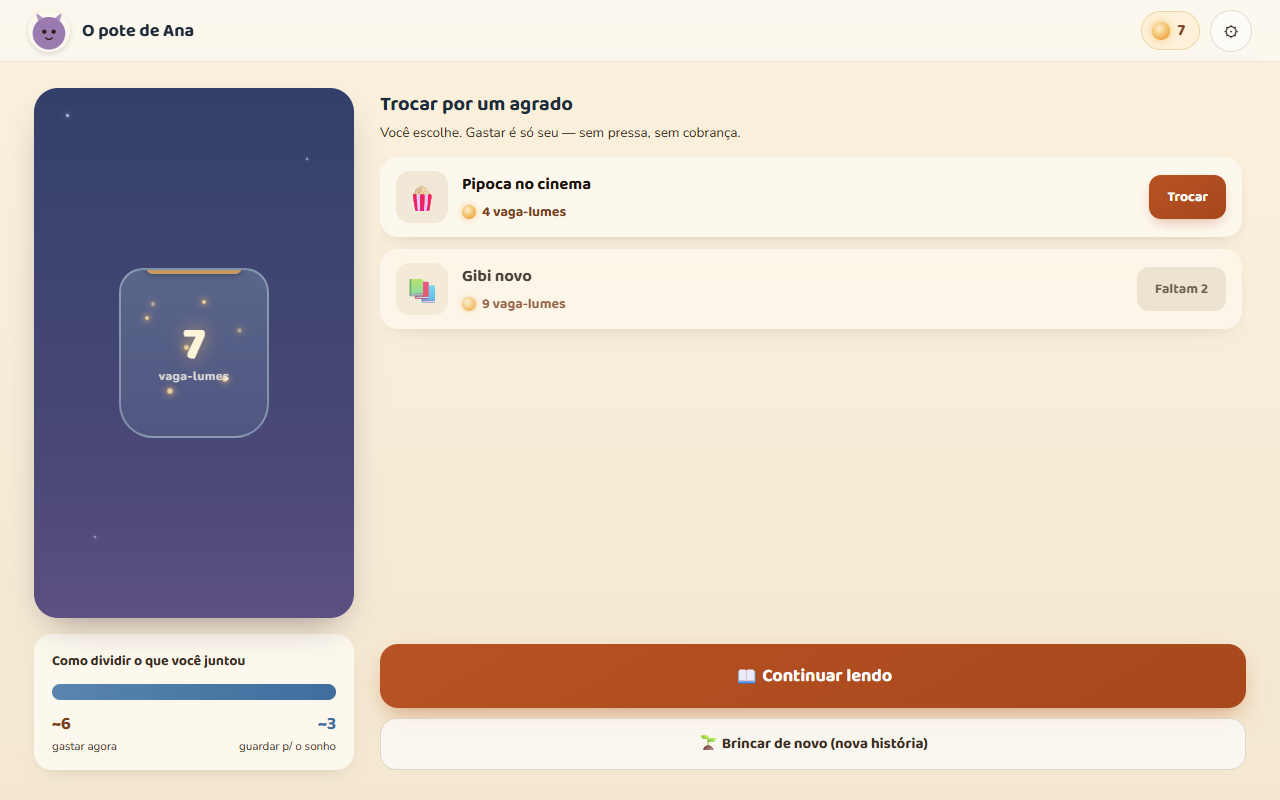
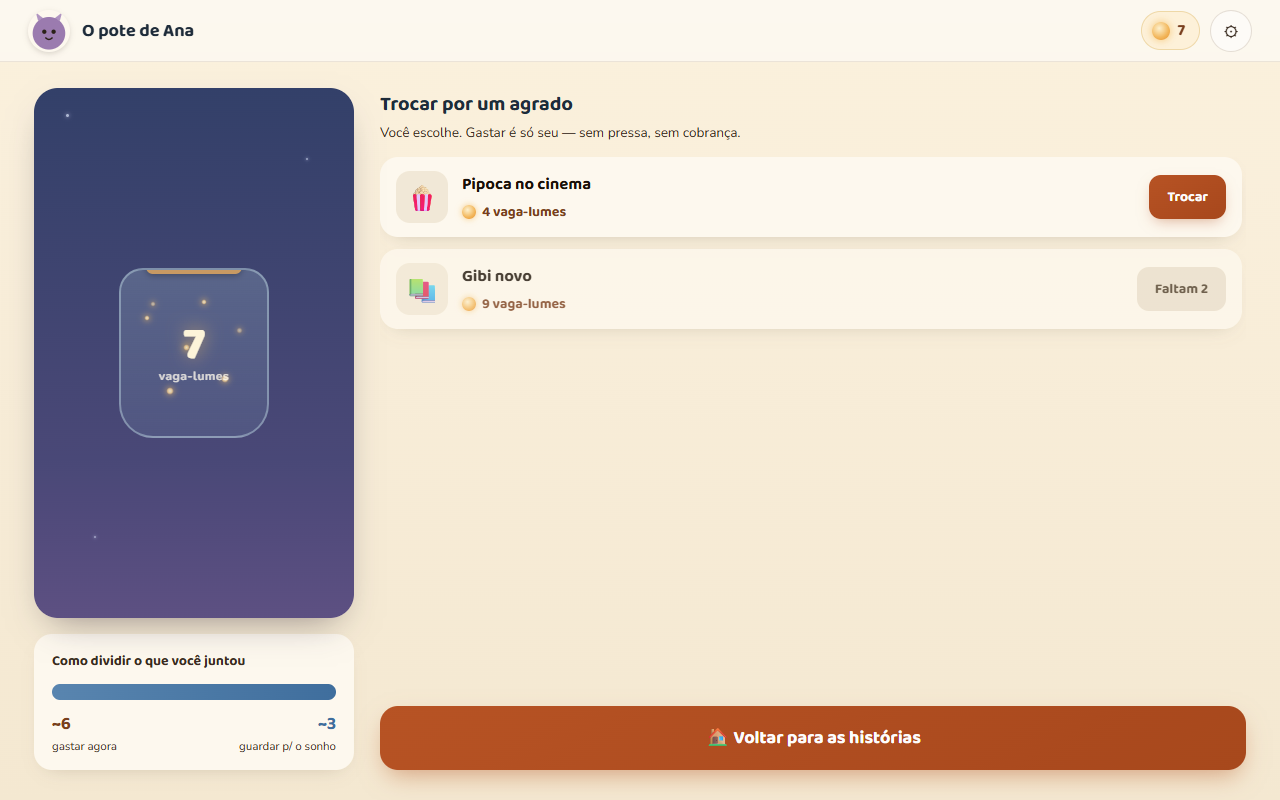
feat(crianca): saidas sem portao — trocar leitor e pote da T3, gear em T2/T6, genero so na T3 (B5)
- T3: avatar+saudacao viram button 'Trocar quem esta lendo' (-> T2) e o saldo vira
  'Ver meu pote de vaga-lumes' (-> T7); ambos >= 48px, 1 toque, sem portao (T2 e
  livre por design; guarda KIDMODE intocada).
- T7: sem historia em curso a primaria e 'Voltar para as historias' (nao abre a T4
  iniciando composicao do nada); a secundaria so aparece com historia em curso.
- T6 ganha o gear 'Do meu jeito' (48px; era a unica tela sem saida lateral);
  T2 ganha 'Do meu jeito' ao lado de 'Sou o cuidador' (48px).
- estado.js: PedirGenero fica pendente na ativacao e abre apenas na chegada a T3
  (nunca sobre T4-T7).
- Runners: linha-verde +7 asserts (87); geracao2 espera o overlay na chegada a T3 e
  prova que nao abre fora dela (48); sonda a11y aceita a nova primaria da T7 (31/31).
- PNGs de prova (B1/B4) regenerados pela sonda apos as mudancas.

Changed region(s): [[0.2812, 0.7812, 1.0, 1.0]]

diff --git a/src/telas/Tela3SelecaoCenario.dc.html b/src/telas/Tela3SelecaoCenario.dc.html
@@ -11,18 +11,20 @@
 
   <!-- Header -->
   <div style="height:62px;flex-shrink:0;display:flex;align-items:center;justify-content:space-between;padding:0 28px;background:rgba(255,255,255,.55);backdrop-filter:blur(8px);border-bottom:1px solid rgba(160,140,110,.18);">
-    <div style="display:flex;align-items:center;gap:12px;">
+    <!-- B5 (ML-3): avatar + saudação é a SAÍDA para trocar de leitor (T2) — 1 toque, sem portão. -->
+    <button onClick="{{ trocarLeitor }}" aria-label="Trocar quem está lendo" title="Trocar quem está lendo" style="display:flex;align-items:center;gap:12px;min-height:48px;padding:3px 10px 3px 3px;border:none;border-radius:999px;background:transparent;cursor:pointer;text-align:left;">
       <div ref="{{ childAvatarRef }}" style="width:42px;height:42px;border-radius:50%;overflow:hidden;background:#fffaf0;box-shadow:0 2px 6px rgba(74,59,44,.2);"></div>
       <div>
         <div style="font-family:'Baloo 2',cursive;font-weight:700;font-size:16px;color:#3a4f63;line-height:1;">{{ saudacao }}</div>
-        <div style="font-size:12px;color:var(--pip-texto-suave);margin-top:2px;">Leitor em ascensão ✨</div>
+        <div style="font-size:12px;color:var(--pip-texto-suave);margin-top:2px;">Leitor em ascensão ✨ · trocar leitor</div>
       </div>
-    </div>
+    </button>
     <div style="display:flex;align-items:center;gap:10px;">
-      <div style="display:flex;align-items:center;gap:7px;background:#fff3da;border:1.5px solid #f0d9a8;border-radius:999px;padding:6px 14px 6px 10px;">
+      <!-- B5 (ML-3): o saldo é a SAÍDA para o pote (T7) — 1 toque. -->
+      <button onClick="{{ verPote }}" aria-label="Ver meu pote de vaga-lumes" title="Ver meu pote" style="display:flex;align-items:center;gap:7px;min-height:48px;background:#fff3da;border:1.5px solid #f0d9a8;border-radius:999px;padding:6px 14px 6px 10px;cursor:pointer;">
         <div style="width:18px;height:18px;border-radius:50%;background:radial-gradient(circle at 40% 35%,#fff3cf,#f4b65a 60%,#e89132);box-shadow:0 0 8px 1px rgba(247,191,96,.7);"></div>
         <span style="font-family:'Baloo 2',cursive;font-weight:700;font-size:16px;color:var(--pip-terracota-texto);">{{ vagalumes }}</span>
-      </div>
+      </button>
       <!-- Casinha da criança: o que já foi guardado p/ o sonho fica à vista -->
       <sc-if value="{{ temPoupado }}" hint-placeholder-val="{{ false }}">
         <div title="Guardado para o sonho" style="display:flex;align-items:center;gap:6px;background:#e9f0fa;border:1.5px solid #c4d5ec;border-radius:999px;padding:6px 14px;">
@@ -188,6 +190,18 @@ class Component extends DCLogic {
     if (App) App.setState({ showA11y: true });
   }
 
+  // B5 (ML-3): saídas da criança sem portão — T2 é o "login visual" livre por design
+  // e a T7 é dela. setState({tela}) respeita a guarda KIDMODE (só superfícies adultas
+  // são barradas).
+  trocarLeitor() {
+    const App = window.PipocaApp;
+    if (App) App.setState({ tela: 2 });
+  }
+  verPote() {
+    const App = window.PipocaApp;
+    if (App) App.setState({ tela: 7 });
+  }
+
   componentDidMount() {
     this._updateRefs();
     this._carregarHistorias();
@@ -284,6 +298,8 @@ class Component extends DCLogic {
       featuredPick: () => this.escolherCenario('quintal_anoitecer'),
       gridCenas,
       abrirAjustesA11y: () => this.abrirAjustesA11y(),
+      trocarLeitor: () => this.trocarLeitor(),
+      verPote: () => this.verPote(),
     };
   }
 }

diff --git a/src/app/estado.js b/src/app/estado.js
@@ -139,6 +139,12 @@
         }
         var R = window.PipocaRoteador;
         if (R) R.irParaTela(state.tela);
+        // B5 (UI-C38): o pedir-uma-vez do gênero só aparece na CHEGADA à T3 (a casinha),
+        // nunca sobre T4–T7 nem sobre telas adultas — a ativação deixa a pergunta pendente.
+        if (state.tela === 3 && _pedirGeneroPendente && state.perfil && !state.perfil.genero) {
+          _pedirGeneroPendente = false;
+          state.pedirGenero = true;
+        }
       }
       // UX por perfil · perfil trocado por fora do fluxo (e2e, remoção em T12):
       // invalida a gravação pendente do perfil anterior (nunca contamina o novo)
@@ -449,6 +455,9 @@
   // criança A não vaza pra B) e hidrata em paralelo (repo local resolve em
   // microtask). Mesmo id: passthrough — preserva a composição em curso.
   // `telaDestino` opcional (T2 passa 3; T12 não navega).
+  // B5: a pergunta do gênero fica PENDENTE na ativação e abre na chegada à T3 (setState).
+  var _pedirGeneroPendente = false;
+
   function selecionarPerfil(p, telaDestino) {
     if (!p || !p.id) return;
     flushSavePendente();
@@ -456,8 +465,9 @@
     if (state.perfil && state.perfil.id === p.id) {
       nav.perfil = p;
       // fase13 pós-incidente · perfil legado sem gênero: pergunta na ativação
-      // ("Depois" fecha; volta a perguntar na próxima ativação).
-      nav.pedirGenero = !p.genero;
+      // ("Depois" fecha; volta a perguntar na próxima ativação). B5: só na T3.
+      _pedirGeneroPendente = !p.genero;
+      nav.pedirGenero = false;
       setState(nav);
       return;
     }
@@ -468,7 +478,8 @@
     patch.gatePendente = null;
     patch.leitorHistoria = null; // a releitura da criança A não vaza pra B
     patch.ultimaHistoriaSalvaId = null;
-    patch.pedirGenero = !p.genero; // pedir-uma-vez (fase13 pós-incidente)
+    _pedirGeneroPendente = !p.genero; // pedir-uma-vez (fase13 pós-incidente) — abre na T3 (B5)
+    patch.pedirGenero = false;
     for (var k in nav) { if (Object.prototype.hasOwnProperty.call(nav, k)) patch[k] = nav[k]; }
     setState(patch);
     _hidratarPerfil(p);

diff --git a/src/telas/Tela7PoteCardapio.dc.html b/src/telas/Tela7PoteCardapio.dc.html
@@ -252,6 +252,9 @@ class Component extends DCLogic {
     //  • história em andamento → "Continuar lendo" (retoma a rodada, T4) + secundária.
     //  • história convergida → só "Brincar de novo" (nova história).
     const convergiu = App && App.composicaoConvergiu ? App.composicaoConvergiu() : false;
+    // B5: chegando pelo saldo da T3 (sem composição em curso), "Continuar lendo" abriria a
+    // T4 e iniciaria uma história do nada — a primária vira "voltar para as histórias".
+    const emCurso = !!estado.comp && !convergiu;
     const estiloPrimaria = 'width:100%;padding:18px;border:none;border-radius:18px;background:var(--pip-cta);color:#fff;font-family:"Baloo 2",cursive;font-weight:700;font-size:18px;cursor:pointer;box-shadow:0 10px 24px -6px rgba(181,86,40,.5);';
     const estiloSecundaria = 'width:100%;padding:13px;border:1.5px solid rgba(160,140,110,.3);border-radius:16px;background:rgba(255,255,255,.7);color:#7a6a54;font-family:"Baloo 2",cursive;font-weight:700;font-size:15px;cursor:pointer;';
 
@@ -264,11 +267,11 @@ class Component extends DCLogic {
       saveSuggest: save,
       spendPct: pct + '%',
       rewardMenu,
-      acaoPrimaria: convergiu ? (() => this.brincarDeNovo()) : (() => this.continuar()),
-      // Fim da história: o caminho claro é voltar à casinha (T3) e escolher outra.
-      primariaLabel: convergiu ? '🏠 Escolher outra história' : '📖 Continuar lendo',
+      acaoPrimaria: emCurso ? (() => this.continuar()) : (() => this.brincarDeNovo()),
+      // Fim da história (ou sem história em curso): o caminho claro é voltar à casinha (T3).
+      primariaLabel: emCurso ? '📖 Continuar lendo' : (convergiu ? '🏠 Escolher outra história' : '🏠 Voltar para as histórias'),
       primariaStyle: estiloPrimaria,
-      mostrarSecundaria: !convergiu,
+      mostrarSecundaria: emCurso,
       acaoSecundaria: () => this.brincarDeNovo(),
       secundariaLabel: '🌱 Brincar de novo (nova história)',
       secundariaStyle: estiloSecundaria,

diff --git a/src/telas/Tela2EntradaCrianca.dc.html b/src/telas/Tela2EntradaCrianca.dc.html
@@ -46,7 +46,11 @@
         </sc-for>
       </div>
 
-      <button onClick="{{ abrirPortaoParental }}" style="margin-top:46px;background:rgba(255,255,255,.6);border:none;border-radius:999px;padding:11px 22px;font-family:'Nunito';font-weight:700;font-size:14px;color:#5a6b53;cursor:pointer;backdrop-filter:blur(4px);">⚙ Sou o cuidador</button>
+      <!-- B5: a T2 também tem "Do meu jeito" (ajustes sem portão); "Sou o cuidador" leva ao PIN. -->
+      <div style="display:flex;gap:12px;margin-top:46px;flex-wrap:wrap;justify-content:center;">
+        <button onClick="{{ abrirAjustesA11y }}" aria-label="Do meu jeito" style="min-height:48px;background:rgba(255,255,255,.6);border:none;border-radius:999px;padding:11px 22px;font-family:'Nunito';font-weight:700;font-size:14px;color:#5a6b53;cursor:pointer;backdrop-filter:blur(4px);">✨ Do meu jeito</button>
+        <button onClick="{{ abrirPortaoParental }}" style="min-height:48px;background:rgba(255,255,255,.6);border:none;border-radius:999px;padding:11px 22px;font-family:'Nunito';font-weight:700;font-size:14px;color:#5a6b53;cursor:pointer;backdrop-filter:blur(4px);">🔒 Sou o cuidador</button>
+      </div>
     </sc-if>
 
   </div>
@@ -135,6 +139,11 @@ class Component extends DCLogic {
     this.irParaTela(1);
   }
 
+  abrirAjustesA11y() {
+    const App = window.PipocaApp;
+    if (App) App.setState({ showA11y: true });
+  }
+
   renderVals() {
     const { perfis, carregando } = this.state;
     const App = window.PipocaApp;
@@ -168,6 +177,7 @@ class Component extends DCLogic {
       avatars,
       animClass,
       abrirPortaoParental: () => this.abrirPortaoParental(),
+      abrirAjustesA11y: () => this.abrirAjustesA11y(),
     };
   }
 }

diff --git a/src/telas/Tela6Recompensa.dc.html b/src/telas/Tela6Recompensa.dc.html
@@ -21,6 +21,10 @@
 
 <div style="position:absolute;inset:0;display:flex;flex-direction:column;align-items:center;justify-content:center;background:linear-gradient(180deg,#fef4e0,#fbe9c4);">
 
+  <!-- B5 (UI-C35): a T6 era a única tela sem ⚙ — quem precisa de ajuste no momento de
+       maior emoção agora tem o mesmo "Do meu jeito" das outras telas. -->
+  <button onClick="{{ abrirAjustesA11y }}" title="Do meu jeito" aria-label="Do meu jeito" style="position:absolute;top:12px;right:16px;z-index:3;width:48px;height:48px;border-radius:50%;border:1.5px solid rgba(160,140,110,.25);background:rgba(255,255,255,.6);cursor:pointer;font-size:18px;color:#7a6a54;">⚙</button>
+
   <!-- Background glow rings -->
   <div style="position:absolute;top:50%;left:50%;transform:translate(-50%,-50%);pointer-events:none;">
     <div style="width:320px;height:320px;border-radius:50%;background:radial-gradient(circle,rgba(247,191,96,.18),transparent 70%);"></div>
@@ -108,6 +112,11 @@ class Component extends DCLogic {
     if (R) R.irParaTela(7);
   }
 
+  abrirAjustesA11y() {
+    const App = this._getApp();
+    if (App) App.setState({ showA11y: true });
+  }
+
   renderVals() {
     const App = this._getApp();
     const estado = App ? App.estado : {};
@@ -154,6 +163,7 @@ class Component extends DCLogic {
           : 'border:2px solid #e3d4ba;background:rgba(255,255,255,.8);color:#7a6a54;'),
       continuar: () => this.continuar(),
       verPote: () => this.verPote(),
+      abrirAjustesA11y: () => this.abrirAjustesA11y(),
     };
   }
 }
